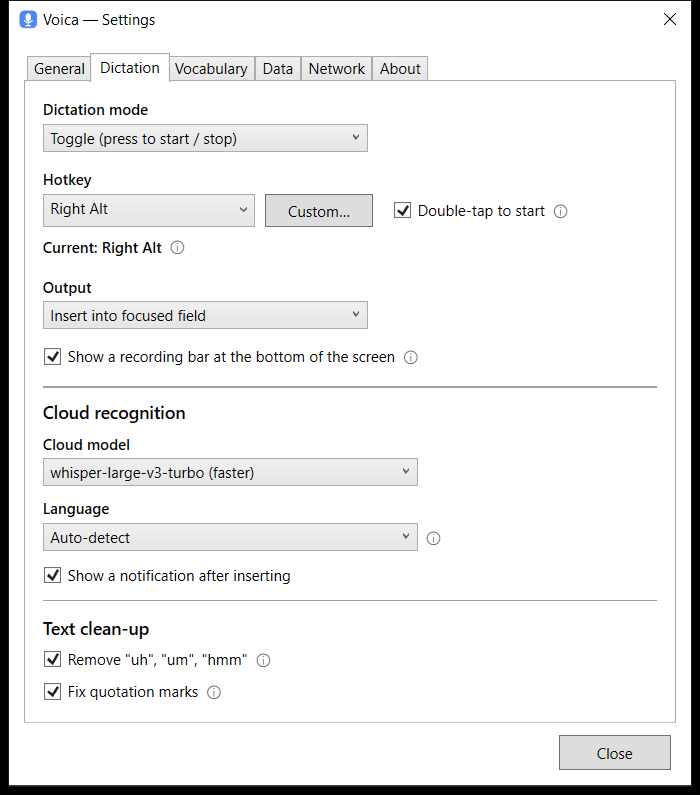
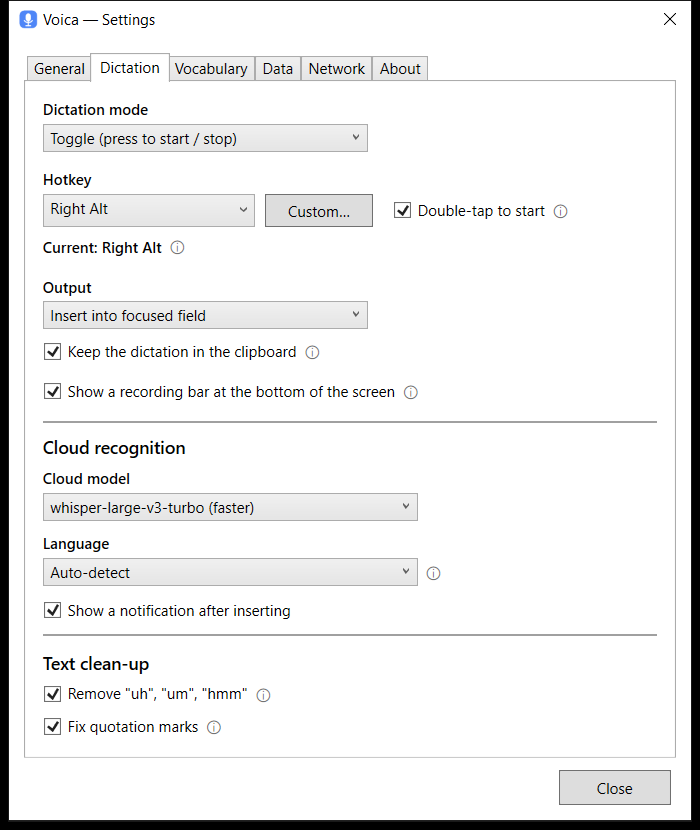
Prepare 0.10.0: notes, READMEs, roadmap, screenshots
The first candidate goes out as v0.10.0-rc.1; the changelog date is set when the
release itself is cut.

diff --git a/.github/release-notes/v0.10.0.md b/.github/release-notes/v0.10.0.md
@@ -1,0 +1,54 @@
+**Voica v0.10.0 — your clipboard, left alone.**
+
+### The clipboard can be given back
+
+A dictation is inserted by pasting, so until now it replaced whatever you had copied: copy a link,
+dictate, press Ctrl+V — and get the dictation instead of the link
+([#2](https://github.com/Inhum/voica-win/issues/2)).
+
+There is now a switch for it: **Settings → Dictation → Keep the dictation in the clipboard**. It is
+**on by default**, which is how Voica has always behaved. Turn it **off**, and the clipboard is only
+borrowed for the paste — half a second later, what you had copied is back.
+
+- **Text, links, formatted text, files and images** come back exactly as they were.
+- If you **copy something new** in that half second, it is left alone.
+- The dictation **does not appear in clipboard history** (Win+V) or cloud sync.
+- In a **remote-desktop** window the return waits five seconds, so the paste has time to travel.
+- Contents that cannot be kept — over 64 MB, an e-mail attachment, a program that is not responding —
+  are not touched: the dictation stays in the clipboard, as before, and the notification says so.
+
+### What it cannot do
+
+There is no way to insert text into another program's field without the clipboard, short of typing
+it key by key — which misbehaves in a different way in every application. So the clipboard is still
+used, briefly, and one thing does not come back: **the program you copied from stops treating the
+contents as its own.**
+
+- **Excel** leaves its copy mode (the dashed outline disappears) and then pastes **values instead of
+  formulas**, with a warning.
+- **Word** pastes its own text by the *Pasting from other programs* setting. The default there,
+  *Merge Formatting*, keeps tables and bold but drops colours and sizes; *Keep Source Formatting*
+  keeps everything.
+
+This is how Windows works, not something Voica can fix — which is why the old behaviour stays the
+default and giving the clipboard back is your choice. Either way it beats what happens today, when a
+dictation leaves nothing of your copy at all.
+
+Any dictation can always be copied again from **History**.
+
+### Install
+
+Windows 10 1809+ / x64:
+
+| File | Size | Needs |
+|---|---|---|
+| **`Voica-Setup-0.10.0.exe`** | ~75 MB | nothing — recommended |
+| `Voica.exe` | ~80 MB | nothing — single file, no installation |
+| `Voica-fx.exe` | ~37 MB | [.NET 8 Desktop Runtime](https://dotnet.microsoft.com/download/dotnet/8.0) installed once |
+
+Installing over an existing copy keeps your history, settings and API key.
+
+Not code-signed yet, so SmartScreen may warn → **More info → Run anyway**
+([why, and how to verify](https://github.com/Inhum/voica-win#why-does-windows-warn-about-this-app)).
+
+Full changelog: https://github.com/Inhum/voica-win/blob/main/CHANGELOG.md

diff --git a/README.md b/README.md
@@ -50,8 +50,13 @@ back the work on [Boosty](https://boosty.to/voica): the road to 1.0 for both the
   Voica automatically falls back to the local engine when the model is installed. Trade-off: Latin
   words can come out as a mix of alphabets (`Dпсик` instead of `DeepSeek`) — that is exactly what
   the vocabulary fixes, see below. The recognition hint stays cloud-only.
-- **Auto‑insert** into the focused field (synthesized Ctrl+V), and the text is **always** copied to
-  the clipboard as a fallback. Or show an editable **result window**.
+- **Auto‑insert** into the focused field (synthesized Ctrl+V); by default the text also stays in the
+  clipboard as a fallback. Or show an editable **result window**.
+- **Your clipboard can be left alone.** Turn off *Keep the dictation in the clipboard* (Settings →
+  Dictation) and the clipboard is only borrowed for the paste: half a second later what you had
+  copied — text, links, formatted text, files, images — is back. One limit is Windows', not ours:
+  the program you copied from stops treating the contents as its own, so Excel pastes values
+  instead of formulas and Word pastes by its *Pasting from other programs* setting.
 - **History** (SQLite) — browse, **search** (Ctrl+F — it also looks at what the engine heard before
   the corrections, so you find a dictation by what you said), re‑copy, play the audio, delete (one
   or a whole multi‑selection), and **export** the entire history to Markdown, CSV or JSON.
@@ -180,7 +185,8 @@ On first launch (with no key set) the **Settings** window opens. Paste your Groq
   mode). In PTT mode, hold to talk and release to send.
 - While recording, the bar at the bottom of the screen shows the level: **×** cancels (the
   recording is discarded), **✓** stops and transcribes.
-- The recognized text is inserted into the focused field and copied to the clipboard.
+- The recognized text is inserted into the focused field and (unless you turned that off) copied to
+  the clipboard.
 - Right‑click the tray icon for **Settings**, **History**, **Check for Updates**, and **About**.
 
 With the dictation bar on (the default), the tray icon stays neutral. Turn it off and the icon

diff --git a/CHANGELOG.md b/CHANGELOG.md
@@ -4,6 +4,32 @@ All notable changes to this project are documented here. The format is based on
 [Keep a Changelog](https://keepachangelog.com/en/1.1.0/), and this project adheres to
 [Semantic Versioning](https://semver.org/spec/v2.0.0.html).
 
+## [0.10.0] - Unreleased
+
+### Added
+- **The clipboard can be left alone** ([#2](https://github.com/Inhum/voica-win/issues/2), spec §5). A
+  dictation is inserted by pasting, so it has always replaced whatever you had copied — the text
+  staying there was the fallback for "there was no field to insert into", and it was paid for on
+  every dictation. A new switch, **Keep the dictation in the clipboard** (Settings → Dictation), is
+  on by default, which is the behaviour so far. Turn it off and the clipboard is only borrowed: what
+  you had copied is saved, the dictation is pasted, and half a second later the previous contents
+  are back (five seconds in a remote-desktop viewer, so the paste has time to travel).
+  - Text, links, formatted text, file lists and images come back byte for byte.
+  - If you copied something new in the meantime, it is left alone.
+  - The dictation is kept out of clipboard history (Win+V) and cloud sync.
+  - What cannot be kept — over 64 MB, contents that take over half a second to read, e-mail
+    attachments, a source application that is not responding — falls back to the old behaviour, and
+    the notification says so. A frozen source used to be able to hang the read for 15 seconds per
+    format; it is now refused in a fraction of a second.
+  - **One limit is not ours:** the program you copied from stops treating the contents as its own.
+    Excel then pastes values instead of formulas; Word pastes by its "Pasting from other programs"
+    setting (choose "Keep Source Formatting" there to keep tables and styles). That is why the
+    switch is opt-in.
+  - In the result-window mode with the switch off, the text is copied only by the window's Copy
+    button.
+- **`--probe-clipboard`** and `scripts/try-clipboard.ps1`: what is on the clipboard right now, what of
+  it can be saved, how long that takes, and whether it comes back identical.
+
 ## [0.9.0] - 2026-09-17
 
 ### Added

diff --git a/docs/ROADMAP.md b/docs/ROADMAP.md
@@ -87,6 +87,12 @@ closed it.
 - ~~Dictation bar with cancel, double-tap to start, multi-select in History~~ — 0.6.0.
 - ~~Text rules that need no model: fillers, unpaired quotes, deterministic term fixing, each with its
   own switch~~ — 0.8.0 (spec §6.2/§6.3/§6.4).
+- ~~Leaving the clipboard alone~~ — 0.10.0 (issue #2, spec §5): the clipboard is borrowed for the
+  paste and returned. **Typing the text as keystrokes instead — decided against:** it is the only
+  transport that never touches the clipboard, but it behaves differently in every application
+  (auto-brackets in editors, autocorrect in Word, a line break sends the message in a chat). What
+  the returned clipboard cannot be is the source's own again — Excel pastes values, Word applies its
+  "other programs" rule — and no restorer can change that, so giving the clipboard back is opt-in.
 - ~~Working through an authenticated corporate proxy, with a Network tab and a route line~~ — 0.9.0
   (spec §9.5/§11.4), verified in a real corporate network. **Installing the local model by hand**
   is documented and checksum-verified, but has not yet been done by anyone in such a network.
